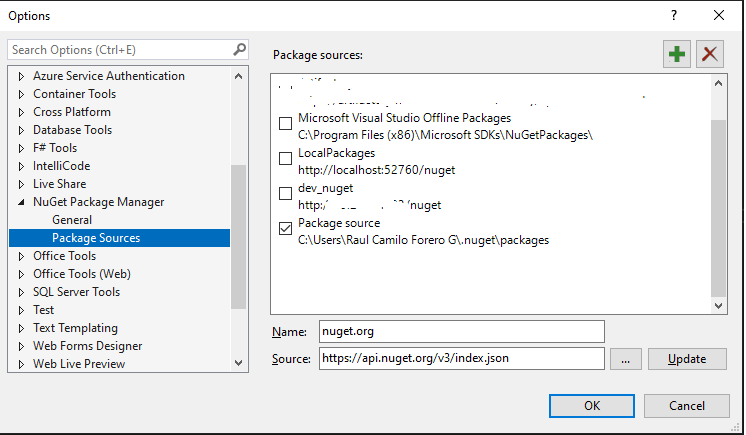
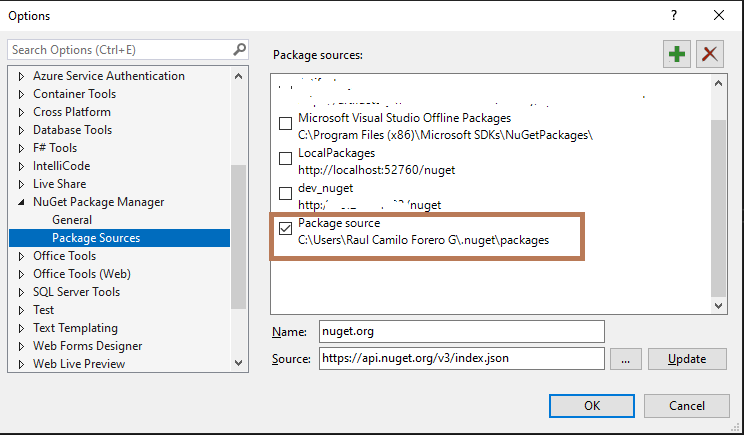
Add Instruction.md file

Changed region(s): [[0.3391, 0.4782, 0.8016, 0.5977]]

diff --git a/netcore/Instructions.md b/netcore/Instructions.md
@@ -1,7 +1,46 @@
 # Congestion Tax Calculator
 
 The implementation proposed, requires that the library for the congestion tax calculator be generated as a Nuget package and 
-configure by the consumer. The library projects that should be compile and copy into the local folder 
+configure by the consumer. The library projects that should be compile and copy into the local folder are Congestion_Models 
+and congestion-tax-calculator-netcore. For generate the libraries as nuget package, in the project properties, inside the package section, check the option Produce a package file during build operations, as can be seen in the next picture:
 
+![alt text](https://github.com/camilofg/congestion-tax-calculator/blob/main/netcore/Images/GenerateNugetPackage.png?raw=true)
+
+This will generate a file with the extension nupkg. The file generated has to be copied in the local Nuget packages repository. To find the route of the folder for nuget package repositories go to **"Tool/NuGet Package Manager/Package Manager Settings"** in the window opened, select Package Source. In the next picture can be seen the folder where the nupkg files should be copied.
 
 ![alt text](https://github.com/camilofg/congestion-tax-calculator/blob/main/netcore/Images/NugetFolder.png?raw=true)
+
+After that the nuget packages should be able to be restored. In case of having issues at restoring, open the **Nuget Package Manager*, select the source of the folder (as can be seen in the picture) and reinstall by hand the newly created packages. 
+
+![alt text](https://github.com/camilofg/congestion-tax-calculator/blob/main/netcore/Images/NugetPackageManager.png?raw=true)
+
+
+# Configurations provided by the client
+
+The main goal of exposing the library as a nuget package is the great advantage that anyone with access to the nuget repository can consume and configure with his own parameters, decoupling its use. 
+
+In the implementation proposed, the Congestion Tax Calculator library is consumed by a Web Api. This consumer has to provide 5 parameters:
+
+1. A **List of DateOnly** that will contain the holidays.
+
+2. An object **RangesTax** that is included in the nuget Congestion_Models, and is used to define the different fares for each time of the day.
+
+3. A **List of strings** that will contain the vehicle type that will be excluded of the toll payment.
+
+4. An **int** that will represent the period of grace between the tolls.
+
+5. An **int** that will represent the maximum amount that can be charge per day.
+
+
+In the web api, the first three parameters are given by json files located in the ConfigFiles folder, and their own file name is referenced in the appsettings with the assembly name included (it can be refactored). The last 2 parameters are directly assign into the appsettings.
+
+
+# Security
+
+Even there were no security consideration the Web Api request a GUI that is also in the appsettings.json and compare the value given by the final user with this value and allows the request if it matches. Is implemented with a filter, that reads the context and retrieve the value as a header of the request.
+
+
+# Notes
+
+The implementation and design took a little bit more than 4 hours, it also includes the unit testing, and the present documentation. In the unit test there is room for improvements on how retrieve the data for the test. 
+As a final consideration, this is a good use case to implement Azure functions that consumes the library and would be easier to scale. I'll continue with this implementation on my spare time in a different branch from the main of the current repository.
